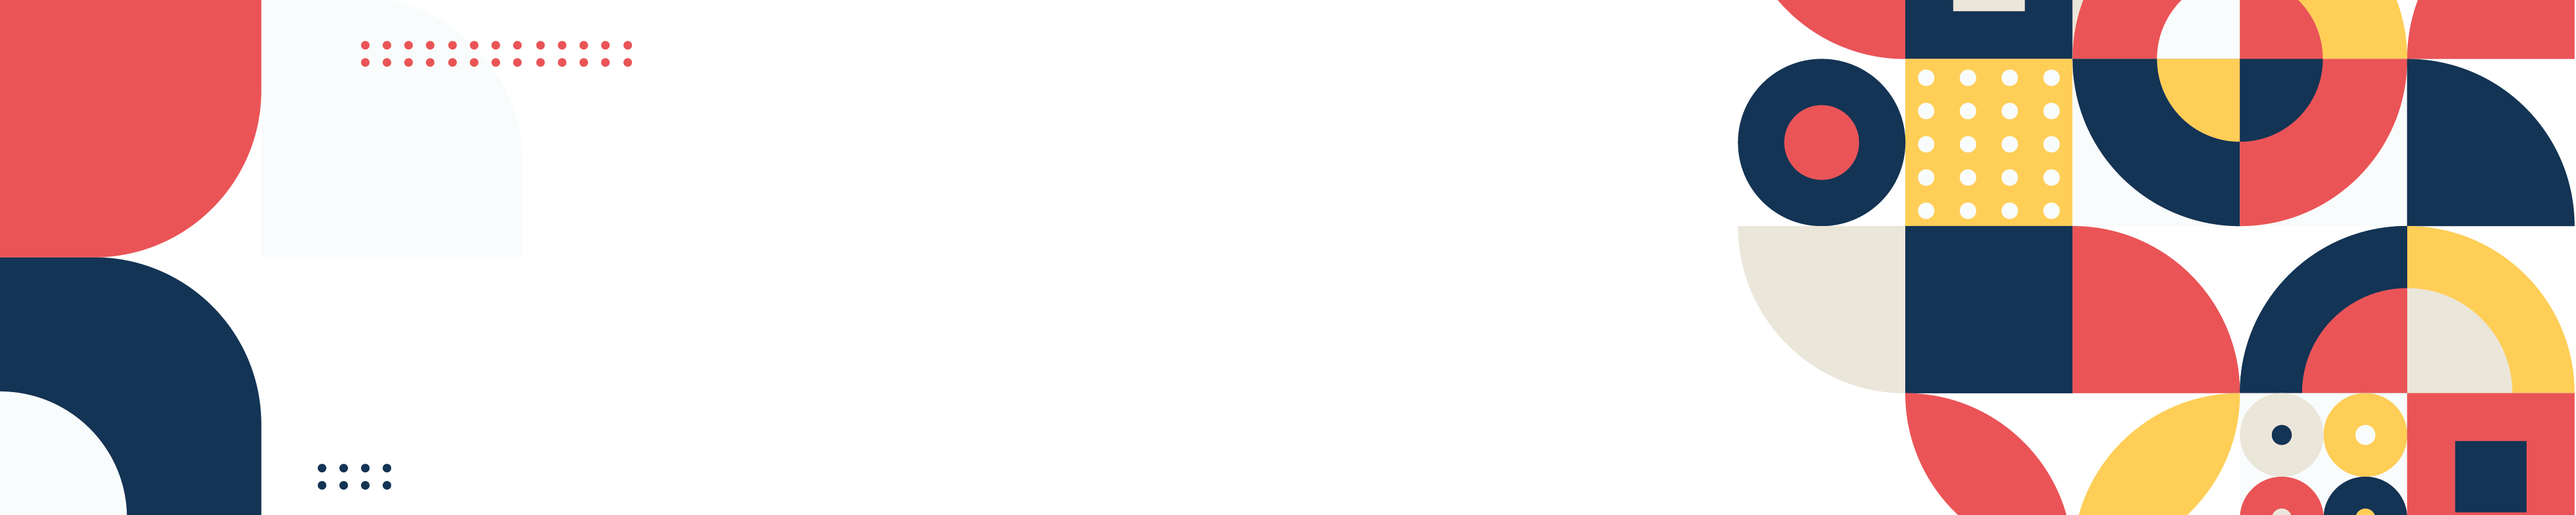
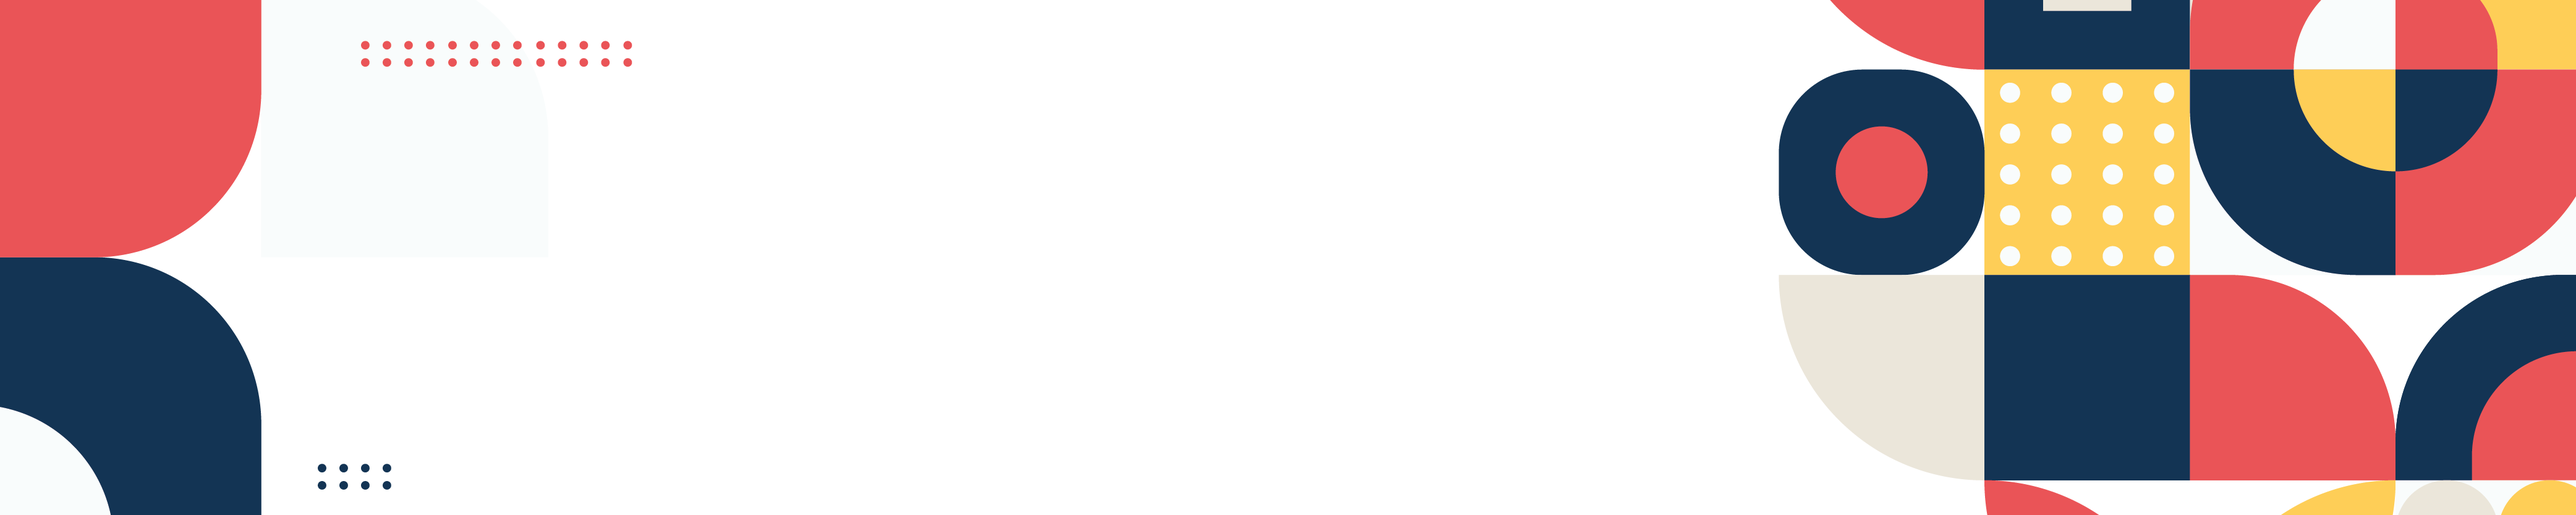
feat: add employee feature

Changed region(s): [[0.6551, 0.0, 1.0, 1.0], [0.0, 0.7482, 0.0624, 1.0]]

diff --git a/src/components/Manager/Dashboard.jsx b/src/components/Manager/Dashboard.jsx
@@ -1,5 +1,5 @@
 import React from "react";
-import pattern from "../../../src/img/dashboardai-01.png";
+import pattern from "../../../src/img/pattern.png";
 import { useSelector } from "react-redux";
 
 const Dashboard = () => {
